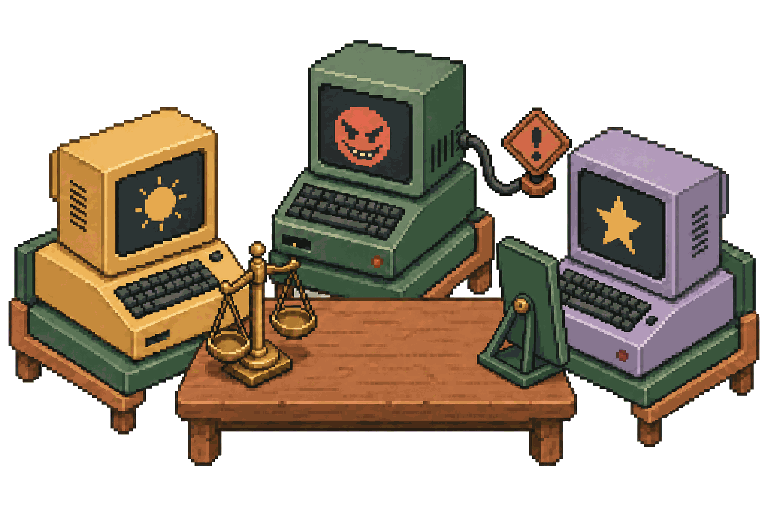
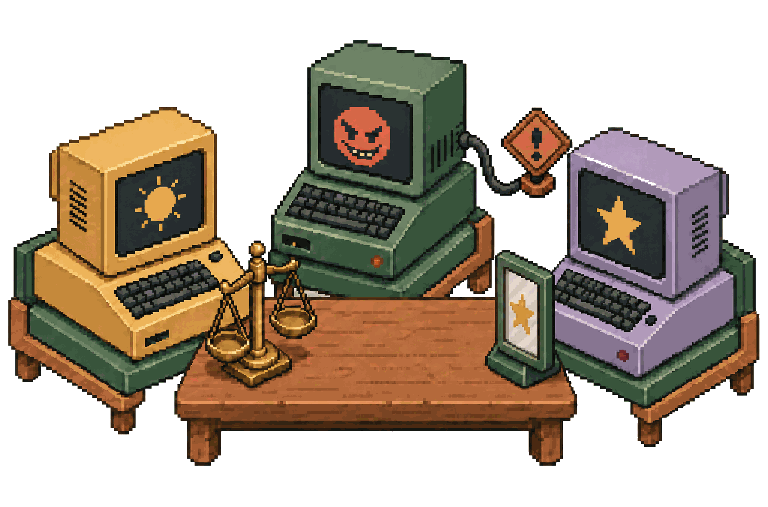
Balance the value-choice artwork and show the mirror reflection

diff --git a/src/components/ArenaOverview.tsx b/src/components/ArenaOverview.tsx
@@ -205,7 +205,7 @@ export function ArenaOverview({ full = false }: { full?: boolean }) {
           <section className="arena-tv-panel research-intro has-pixel-art hero-with-hills" aria-labelledby="arena-home-heading">
             <PixelHills variant="hero" className="hero-hills arena-tv-hills" />
             <h1 id="arena-home-heading">Measuring values in language models</h1>
-            <img className="home-pixel-art" src="/assets/art/model-conversation-values.webp?v=4" width="768" height="507" alt="" aria-hidden="true" />
+            <img className="home-pixel-art" src="/assets/art/model-conversation-values.webp?v=5" width="768" height="507" alt="" aria-hidden="true" />
             <p className="research-deck">EigenBench scores language models on how well their answers fit a written set of values, which we call a constitution. Browse the rankings, compare models across constitutions, and read the actual responses and judgments behind every score.</p>
             <div className="home-actions"><a className="button-primary" href="/explore/">Explore results</a><a className="button-secondary" href="/methodology/">How EigenBench works</a></div>
           </section>

diff --git a/src/components/ModelMatch.tsx b/src/components/ModelMatch.tsx
@@ -166,7 +166,7 @@ export function ModelMatch() {
     const preview = pack.questions[answers.findIndex(answer => answer === null)] || pack.questions[0];
     return <section className="model-match-intro">
     <div><h1>Which model is most<br />aligned with your values?</h1><p>Choose between real model responses and discover your closest match.</p>
-      <img className="match-intro-choice-art" src="/assets/art/value-choice.webp?v=2" width="768" height="432" alt="A thoughtful person choosing between the Goodness and Misalignment value symbols, with a question mark overhead." fetchPriority="high" />
+      <img className="match-intro-choice-art" src="/assets/art/value-choice.webp?v=3" width="768" height="432" alt="A thoughtful person choosing between the Goodness and Misalignment value symbols, with a question mark overhead." fetchPriority="high" />
       <div className="match-intro-meta"><span>10 scenarios</span><span>5 models</span><span>No signup</span></div>
       <div className="eigenbench-actions"><RunButton /></div>
       {completed > 0 && <p className="match-saved-note">{completed} of {pack.questions.length} answered. Your progress is saved in this tab.</p>}

diff --git a/src/components/ConstitutionDirectory.tsx b/src/components/ConstitutionDirectory.tsx
@@ -9,15 +9,15 @@ import { ValuePortrait } from './ValuePortrait';
 import { profileURL, scoreRank } from '@/lib/arena-data';
 
 const SYMBOL_TONES = ['sage', 'sand', 'mint', 'clay', 'dusk'] as const;
-const VALUE_ORDER: Record<string, number> = { taoism_constitution: 0, mathematical: 1 };
+const VALUE_ORDER: Record<string, number> = { sarcasm: 0, taoism_constitution: 1, mathematical: 2 };
 
 export function ConstitutionDirectory() {
   const data = usePublishedBoards();
-  const [active, setActive] = useState('taoism_constitution');
+  const [active, setActive] = useState('sarcasm');
   const directory = useRef<HTMLElement>(null);
   const initialHashHandled = useRef(false);
   const shown = useMemo(() => [...data.boards].sort((a, b) =>
-    (VALUE_ORDER[a.id] ?? 2) - (VALUE_ORDER[b.id] ?? 2)
+    (VALUE_ORDER[a.id] ?? 3) - (VALUE_ORDER[b.id] ?? 3)
   ), [data.boards]);
   const current = shown.find(board => board.id === active) || shown[0];
 
